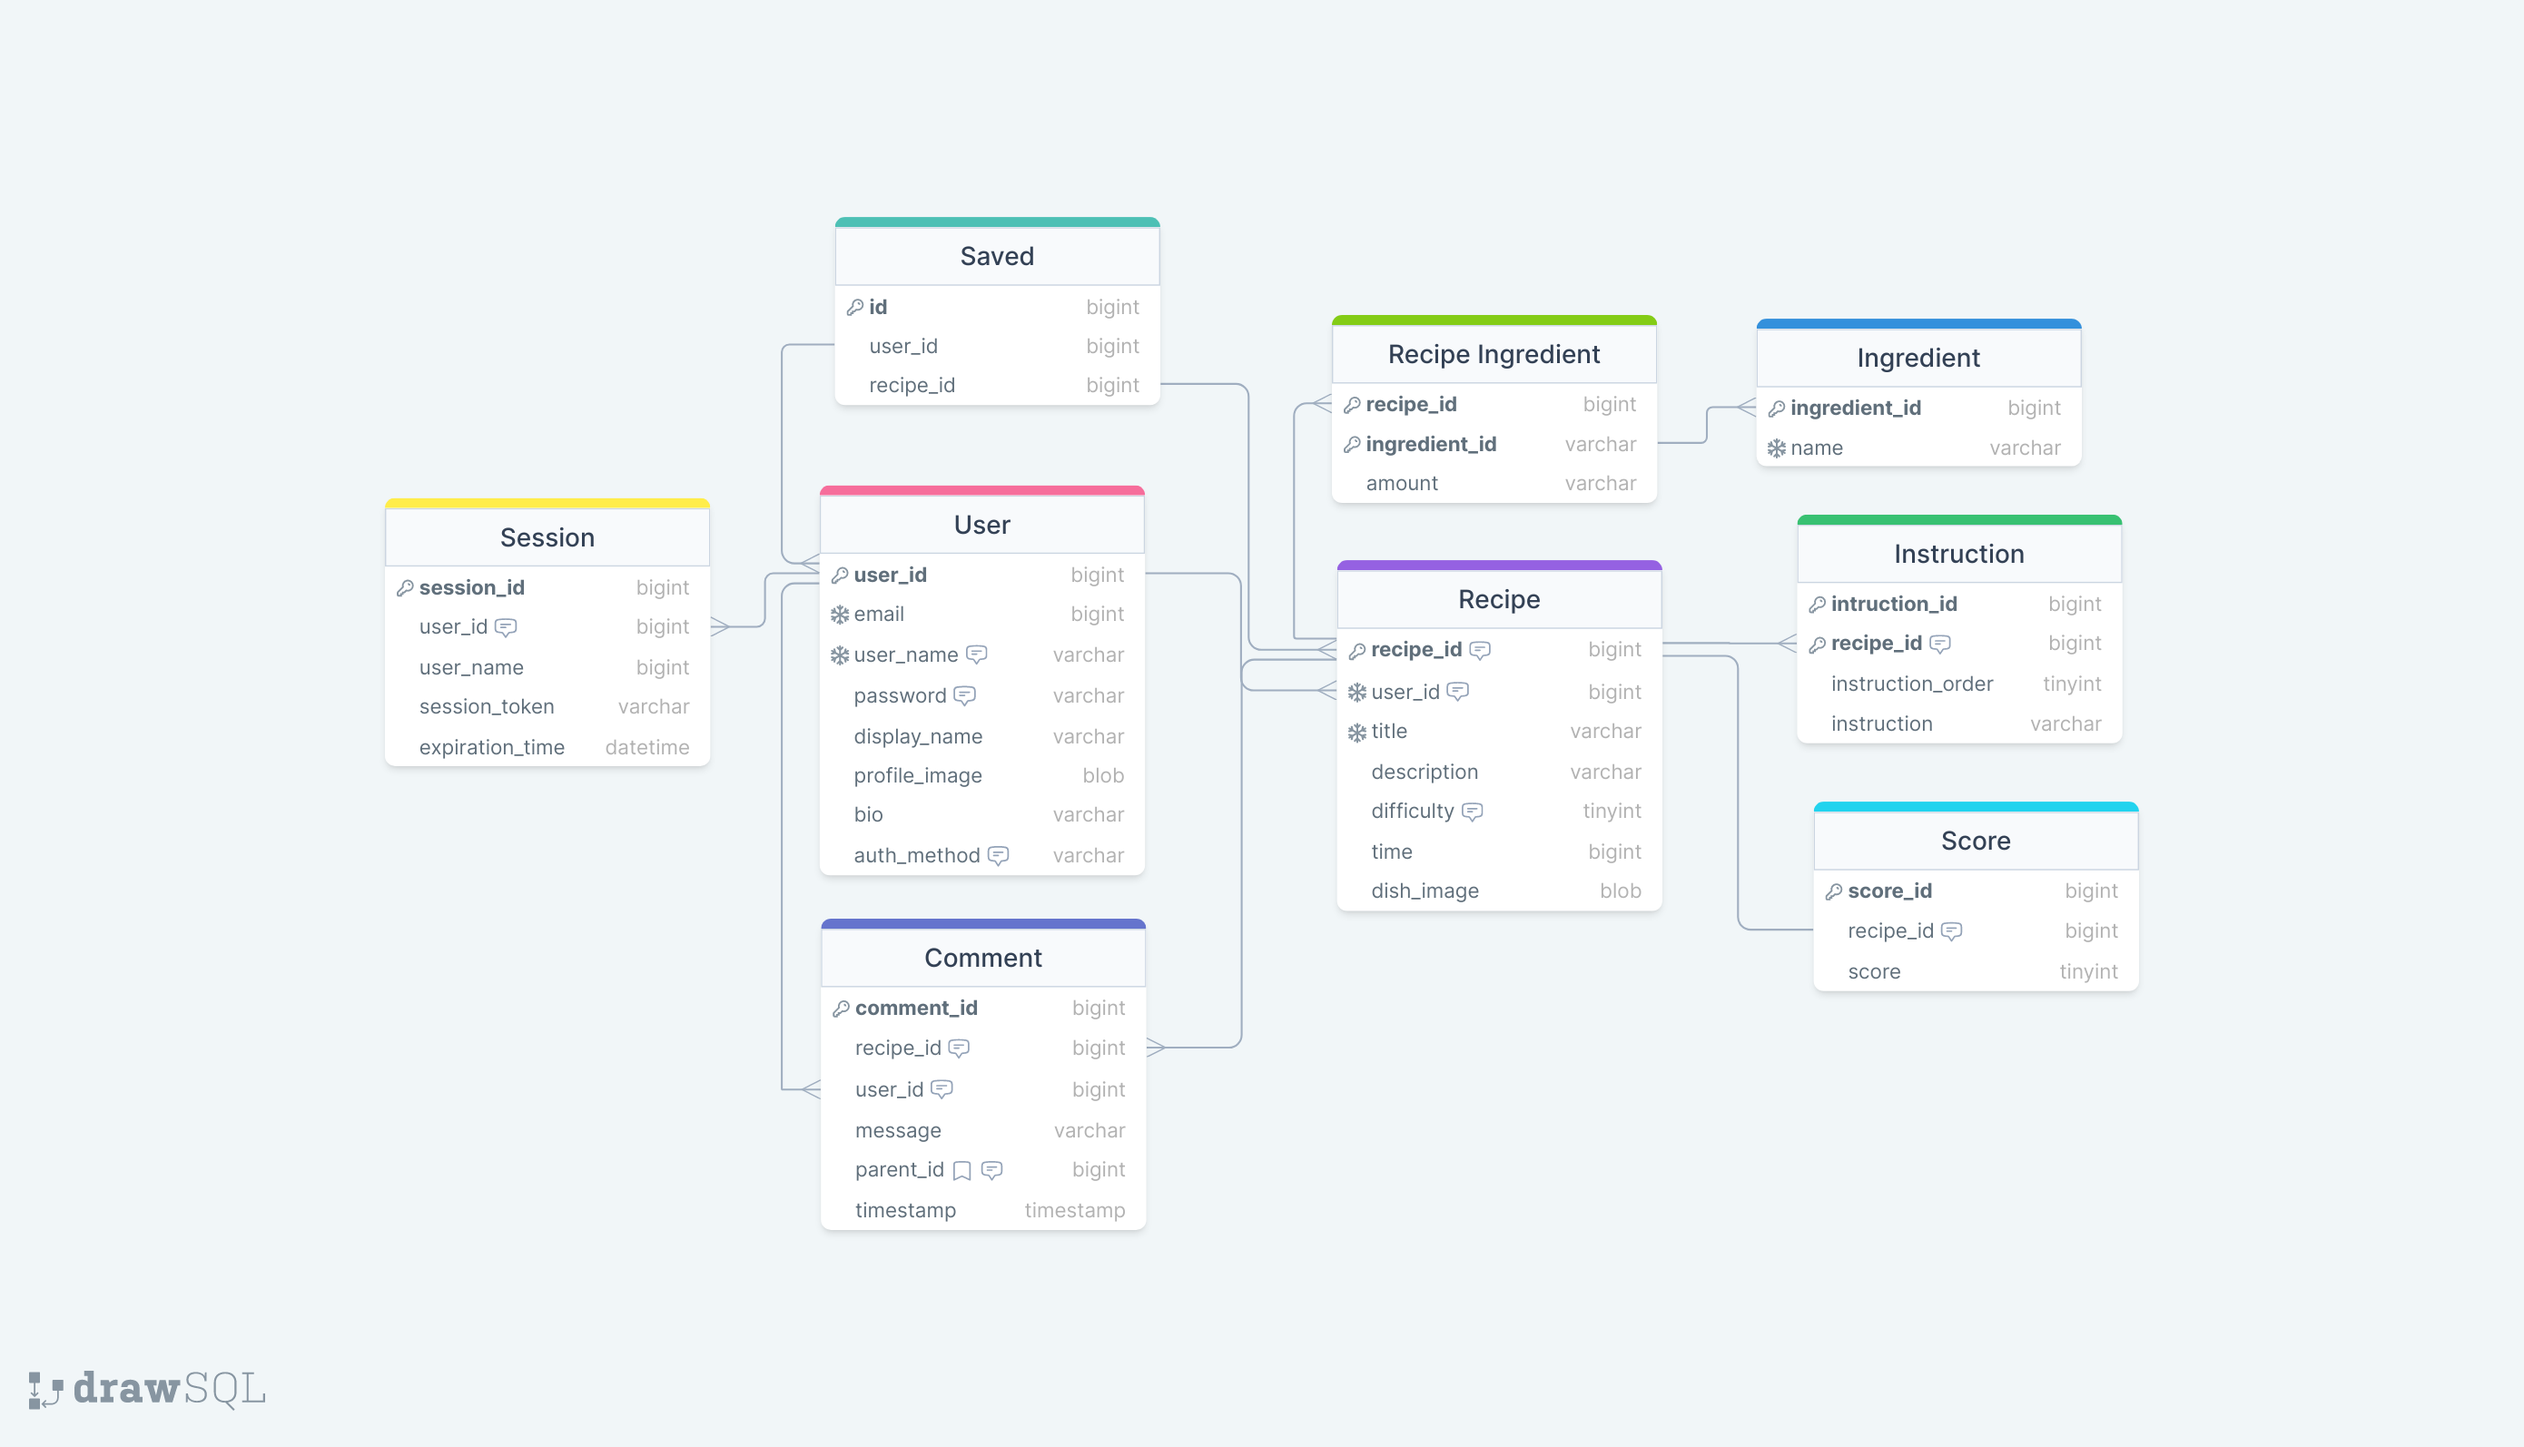
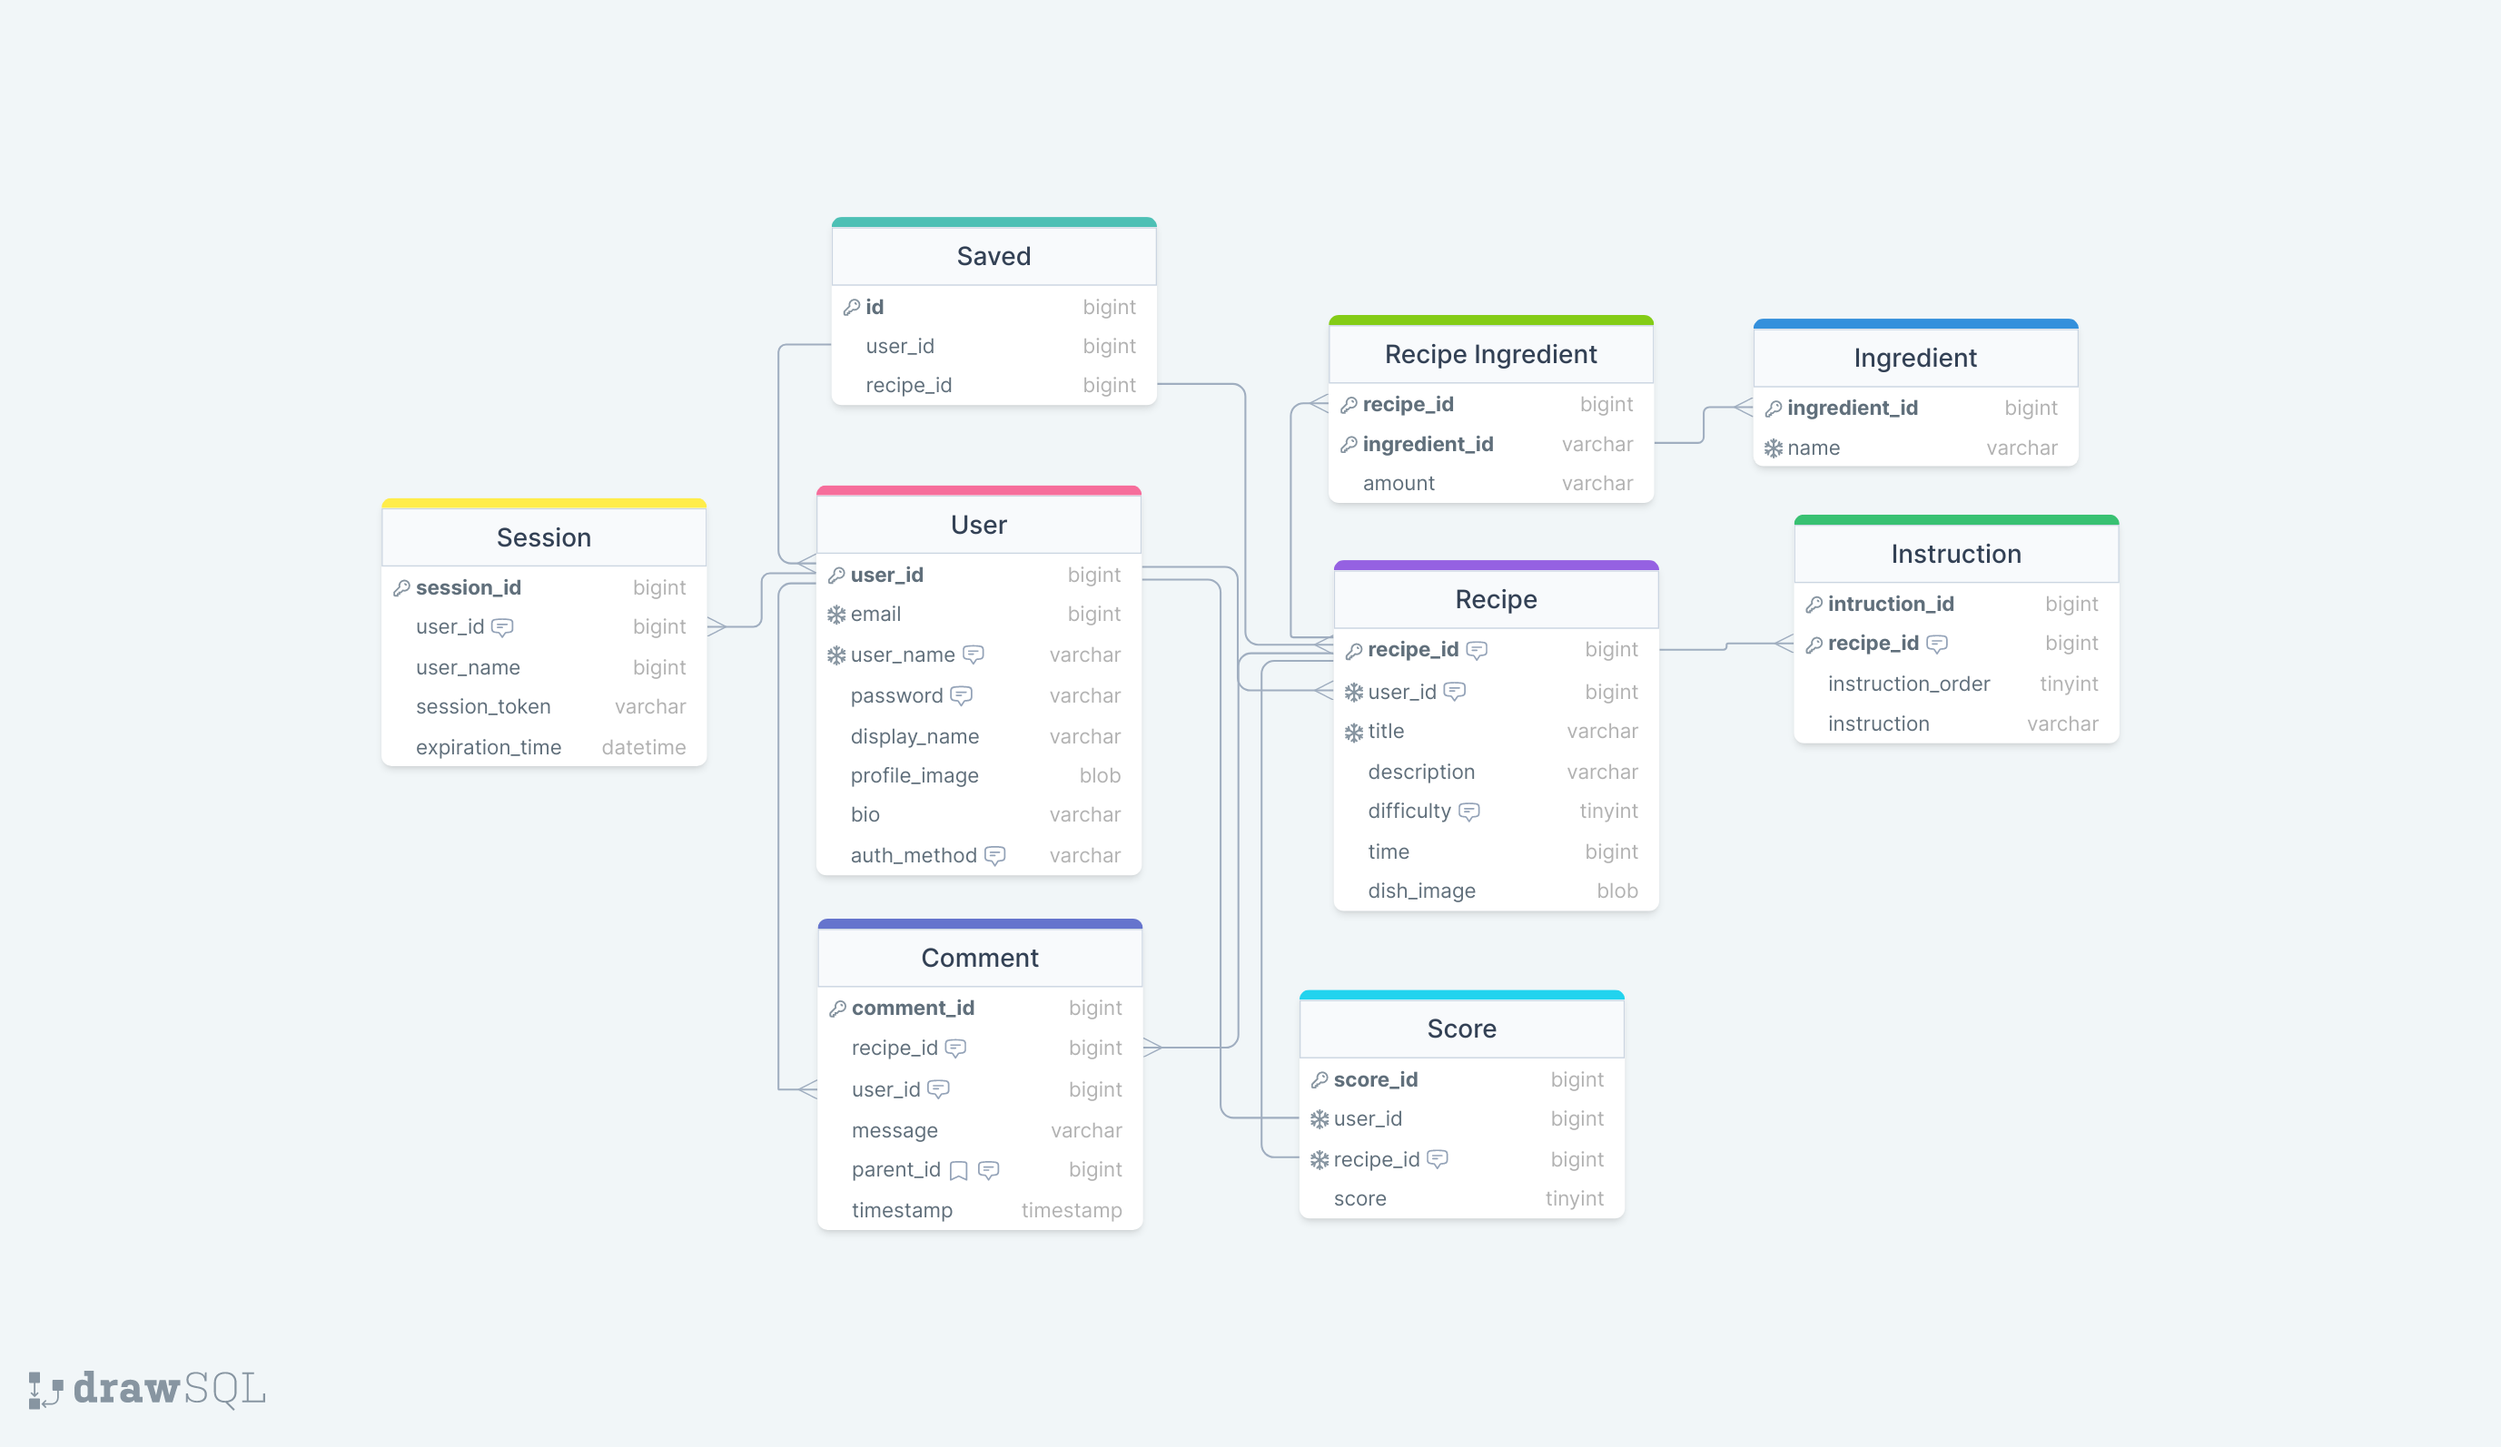
comment usecase updated, hono basics soon^tm done

diff --git a/src/index.ts b/src/index.ts
@@ -16,26 +16,28 @@ const app = new Hono();
 
 dotenv.config();
 
-app.use('/',cors());
+app.use(cors());
 
 app.use(
-    "/auth/*",
+    "/api/*",
     jwt({
         secret: process.env.SECRET,
     })
 );
 
-app.get("/auth/page", (c) => {
+app.get("/api/page", (c) => {
     const payload = c.get("jwtPayload");
     return c.json(payload); // eg: { "sub": "1234567890", "name": "John Doe", "iat": 1516239022 }
 });
 
-const port = parseInt(process.env.PORT!) || 3000;
-console.log(`Running at http://localhost:${port}`);
 
+
+
+const port = parseInt(process.env.PORT!) || 3000;
 serve({
     fetch: app.fetch,
     port: port,
 });
+console.log(`Running at http://localhost:${port}`);
 
 export default app;

diff --git a/public/Hono.md b/public/Hono.md
@@ -1,7 +1,7 @@
 # Hono framework + Node.js runtime
 This document is here to write out my thoughts and prayers like with the db queries document. I'll share some of my problems as well as how I solved them. I'll also write up a API document but that will have to wait.
 
-## Basics of Hono
+## Basics of Hono and authorization
 Well it works which is nice, but this is the first time i'm learning how to actually try out my APIs other than a simple get. I used [Insomnia](https://insomnia.rest/) to try out the API end points of get, post, put and delete. One could also use [Postman](https://www.postman.com/) but I'm sticking with Insomnia for now. All HTTP methods work as intended.
 
 Hono some other cool features like authentication from the server instead of of the frontend which lessens the amount of code in the browser. I tried out Basic Auth which seems to be good when working with an admin page but as a user getting a pop up isn't that appealing maybe I could authorize it in some other way for a user to access their own page and edit page. And there is it's called [Bearer Auth](https://swagger.io/docs/specification/authentication/bearer-authentication/) where the user has a token and with that token a user is able to access certain resources but the question is then how do I create this token and how do I send one for each user that has a session? Well when it comes to creating the token it's just a **plain string** meaning anyone can crack it so this token needs to be sent over a secure site and is generated on the server so the string could be a [JWT token](https://hono.dev/middleware/builtin/jwt) and I would need to send it to a user with the [cookie header](https://blog.logrocket.com/jwt-authentication-best-practices/), where the token is then used as authorization to fetch resources from the users payload data. I will be using a JWT token instead of a row in the database because it's faster and hopefully more secure than me implementing security measures since I can only think of so much. The JWT payload data would look something likes this:
@@ -15,7 +15,44 @@ Hono some other cool features like authentication from the server instead of of 
 ```
 From researching about Hono I found out that they are all about bundle size. So I would need to import [JWT helpers](https://hono.dev/helpers/jwt) and [Cookie helpers](https://hono.dev/helpers/cookie) for authentication. And after reading these articles briefly, I would need to set the cookie when a user logs in, authenticate that cookie to ensure that only logged in users can perform certain actions as well as only the indented users can edit their recipe as well as view their profile. So I'm just spitballing some ideas here, if the cookie payload's `user_id`/`user_name` or both together fit with the url params then a user can edit the page. If a user wants to comment or save a recipe they would need to be logged in i.e have a cookie. If a user wants to rate a recipe they can do so but it will only register if they have a cookie. 
 
-So I'm trying to get JWT to work with a [strong secret key](https://www.digitalocean.com/community/tutorials/nodejs-jwt-expressjs) but nothing works unless my secret it called `test` which is really weird. And I got it working but I still wouldn't be able to tell you why it does. I honestly turned the server on and off and then it worked lol. As is well I have a strong secret that will be used for the JWT token creations. So with the basics done I can now more towards to implementing the SQLite database.
+### Working with cookies
+To be honest I don't know how to auth with a cookie so a little research is in order. The way I understood it is when I make a login request and if I succeed a cookie will be sent back from the server this cookie is then put in my cookie jar at the document level so when I perform request from here on out it would be validated or not, and example of this is mentioned in this [stackoverflow link talking about axios](https://stackoverflow.com/questions/43002444/make-axios-send-cookies-in-its-requests-automatically) and I need to make sure that my middleware of `cors()` isn't set to wildcard, but is a comment from 2017 if things go wrong I would know why. If you don't want to bloat the code base with more code there is a lightweight version of axios called [redaxios](https://www.npmjs.com/package/redaxios). What If I don't want use axios, would I need to implement my own logic for how I retrieve the cookie? Here are some moore code examples, [the first one being axios and the second one plain old fetch](https://stackoverflow.com/questions/66892622/get-cookie-on-front-end):
+```JS
+    try {
+        await axios.get("some url", {
+            withCredentials: true,
+        });
+    } catch (error) {
+        console.log(error);
+    }
+```
+```JS
+fetch("some url", {
+  method: "GET", 
+  headers: {
+    'Content-Type': 'application/json' 
+  },
+  credentials: 'include'
+});
+```
+Apparently one could implement their logic of retrieving cookies but that is if one would want fine crumb control over it. And the example could look like the following:
+```JS
+localStorage.setItem('token', token); //get the token from the fetch or axios.
+localStorage.removeItem('token'); //the token could also be removed during a sign out for instance.
+
+fetch("some url", {
+  method: "GET", 
+  headers: {
+    'Content-Type': 'application/json',
+    Authorization: `Bearer ${localStorage.getItem('token')}`
+  },
+});
+
+```
+I got this example to work with Insomnia but not the other two, Some more testing is in order.
+
+To close of this Hono+auth+cookie venture the JWT didn't work with a [strong secret key](https://www.digitalocean.com/community/tutorials/nodejs-jwt-expressjs) it only worked when my secret was `test` which is really weird since that was the first one I used. And I got it working by literary turning the server on and off... In summary, Hono works well, env variables work, the REST operations work, auth works as well as when trying it out in Insomnia. With the basics done I can now more towards to implementing the SQLite database.
+
 ## Working with SQLite and Node.js
 
 

diff --git a/public/db queries.md b/public/db queries.md
@@ -165,6 +165,15 @@ INSERT INTO Score (recipe_id, score) VALUES (2,4);
 
 SELECT AVG(score) FROM Score WHERE recipe_id = 1;
 ```
+There was a couple of use cases I didn't think for, for instance if a score isn't tied to a user then a user can review bomb a recipe which isn't desirable so I tied the `user_id` to a specific `recipe_id` a `UNIQUE` key. Now only authenticated users can rate as well as if the user's score is not null then I would just need to update the table instead oh and i also inserted the round function as to avoid long `REAL` values. Here is the SQL code:
+```sql
+INSERT INTO Score (user_id,recipe_id, score) VALUES (1,1,3);
+INSERT INTO Score (user_id,recipe_id, score) VALUES (2,1,2);
+INSERT INTO Score (user_id,recipe_id, score) VALUES (1,2,4.2);
+SELECT ROUND(AVG(score), 2) FROM Score WHERE recipe_id = 1;
+UPDATE Score SET score = 1 WHERE user_id = 1 AND recipe_id = 1;
+SELECT ROUND(AVG(score), 2) FROM Score WHERE recipe_id = 1;
+```
 ## Add comments to a recipe as well as chain it
 There are no difficulties trying to add a comment but creating a comment chain/thread will maybe.
 ```sql
